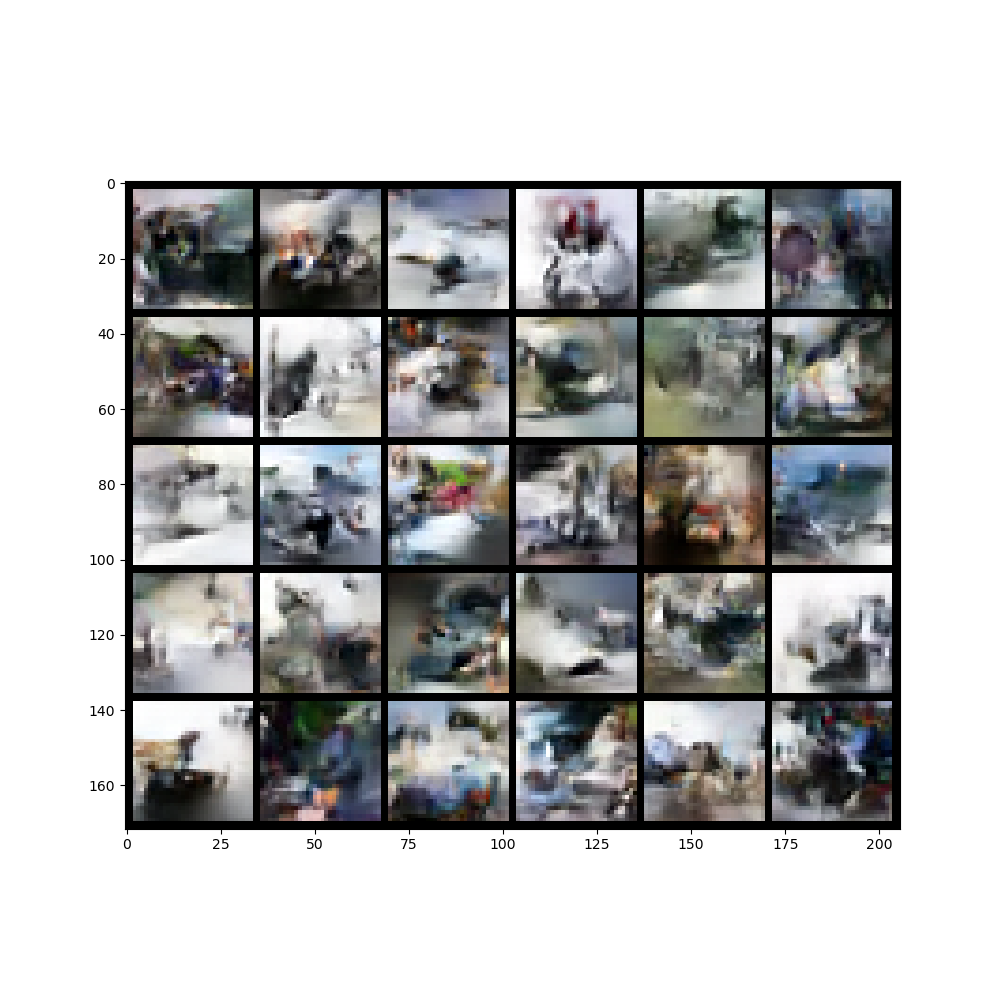
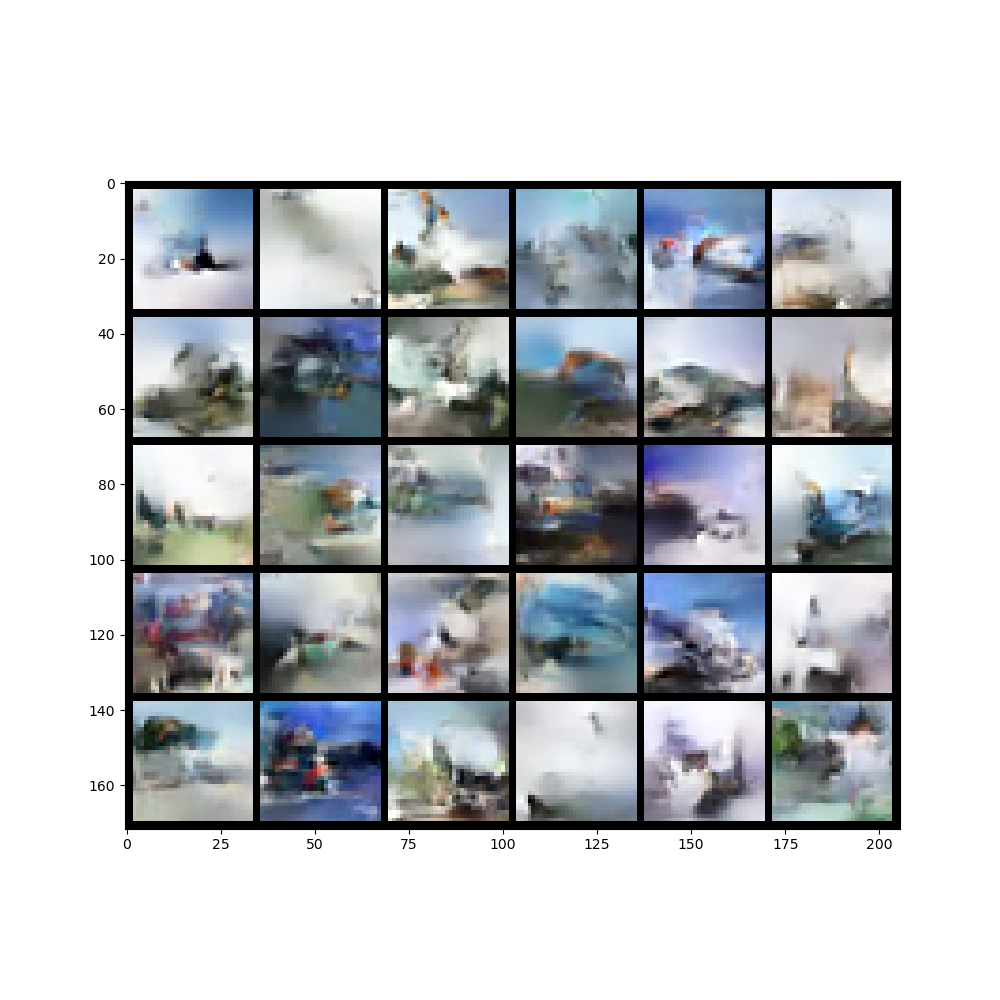
changes

diff --git a/Glow/config.py b/Glow/config.py
@@ -12,8 +12,8 @@ def get_config():
         "y_weight":0.01, #Weight for class condition loss
         "max_grad_clip":0, #Max gradient value (clip above - for off)
         "max_grad_norm":0,#Max norm of gradient (clip above - 0 for off)
-        "batch_size": 120,
-        "epochs": 25, #250
+        "batch_size": 200,
+        "epochs": 35, #250
         "lr": 5e-4,
         "warmup":5,
         "n_init_batches":8, #Number of batches to use for Act Norm initialisation
@@ -21,7 +21,7 @@ def get_config():
         "momentum":0.9,
         "decay":0.0005,
         "output_dir":'./Glow/checkpoints',
-        "saved_model": "/kaggle/input/glow-conditioned-epoch10/pytorch/20/1/glow_checkpoint_20.pt",
-        "saved_optimizer": "/kaggle/input/glow-conditioned-epoch10/pytorch/20/1/glow_checkpoint_20.pt",
+        "saved_model": "/kaggle/input/glow-conditioned-epoch10/pytorch/25/1/glow_checkpoint_25.pt",
+        "saved_optimizer": "/kaggle/input/glow-conditioned-epoch10/pytorch/25/1/glow_checkpoint_25.pt",
         "seed":0
     }

diff --git a/Glow/sample_images.py b/Glow/sample_images.py
@@ -18,7 +18,7 @@ device = torch.device("cuda")
 from config import get_config
 
 config = get_config()
-path = "./Glow/checkpoints/glow_checkpoint_10000.pt"
+path = "./Glow/checkpoints/glow_checkpoint_25.pt"
 
 
 num_classes = 10
@@ -40,7 +40,7 @@ def sample(model):
 
             #y = torch.eye(num_classes)
             y = torch.zeros(10)
-            y[9] = 1
+            y[0] = 1
             y = y.repeat(35,1)
             #y = y.repeat(48 // num_classes + 1,1)
             y = y[:32, :].to(device) # number hardcoded in model for now
